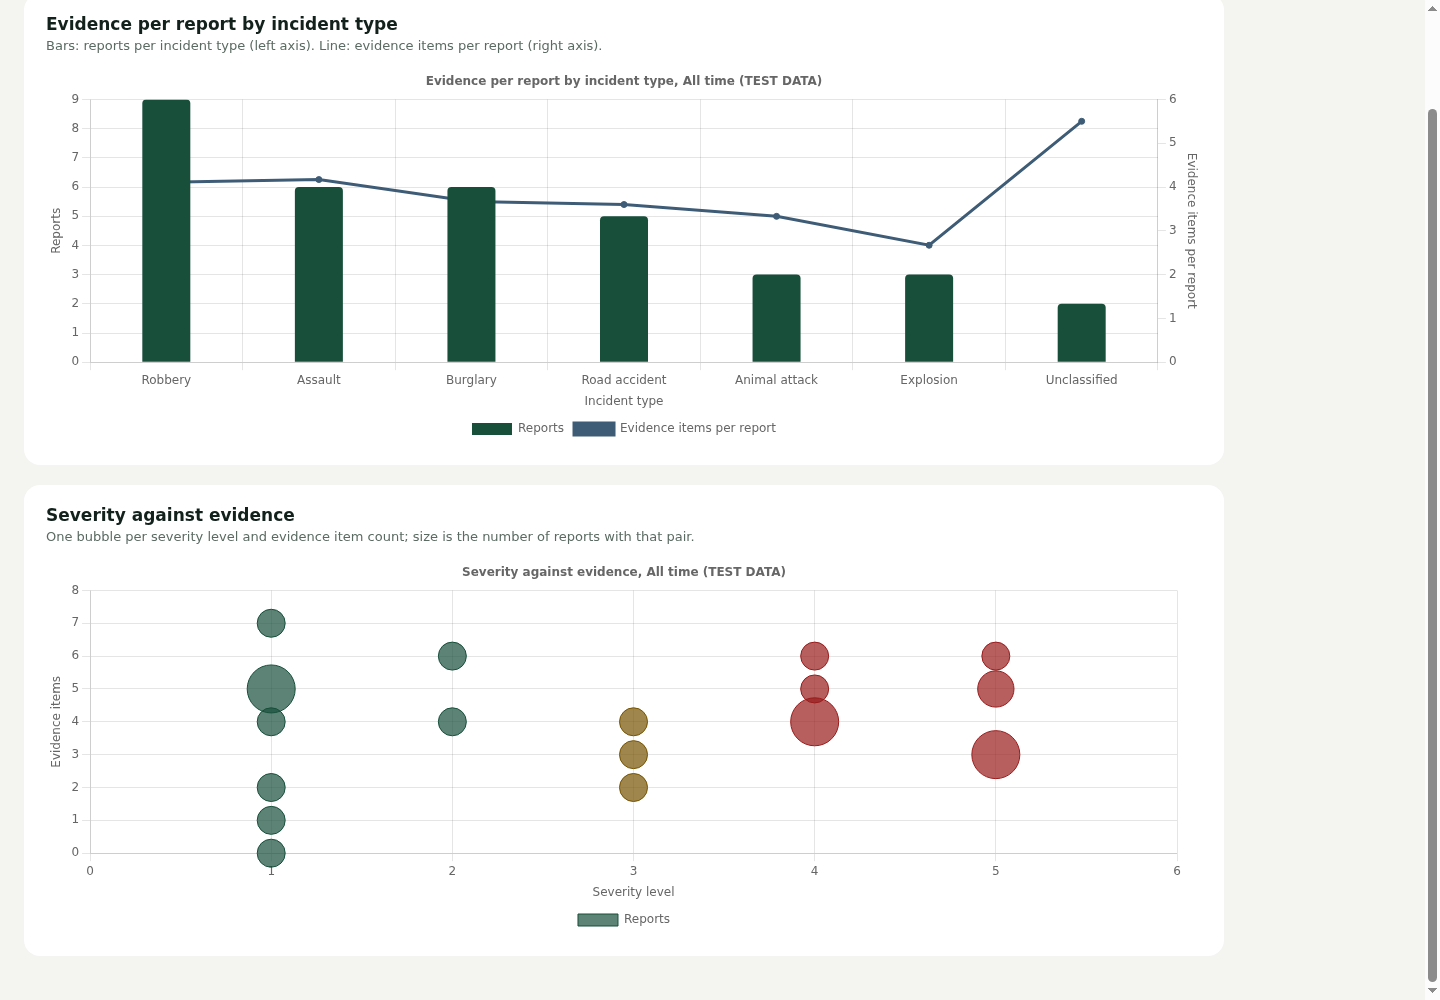
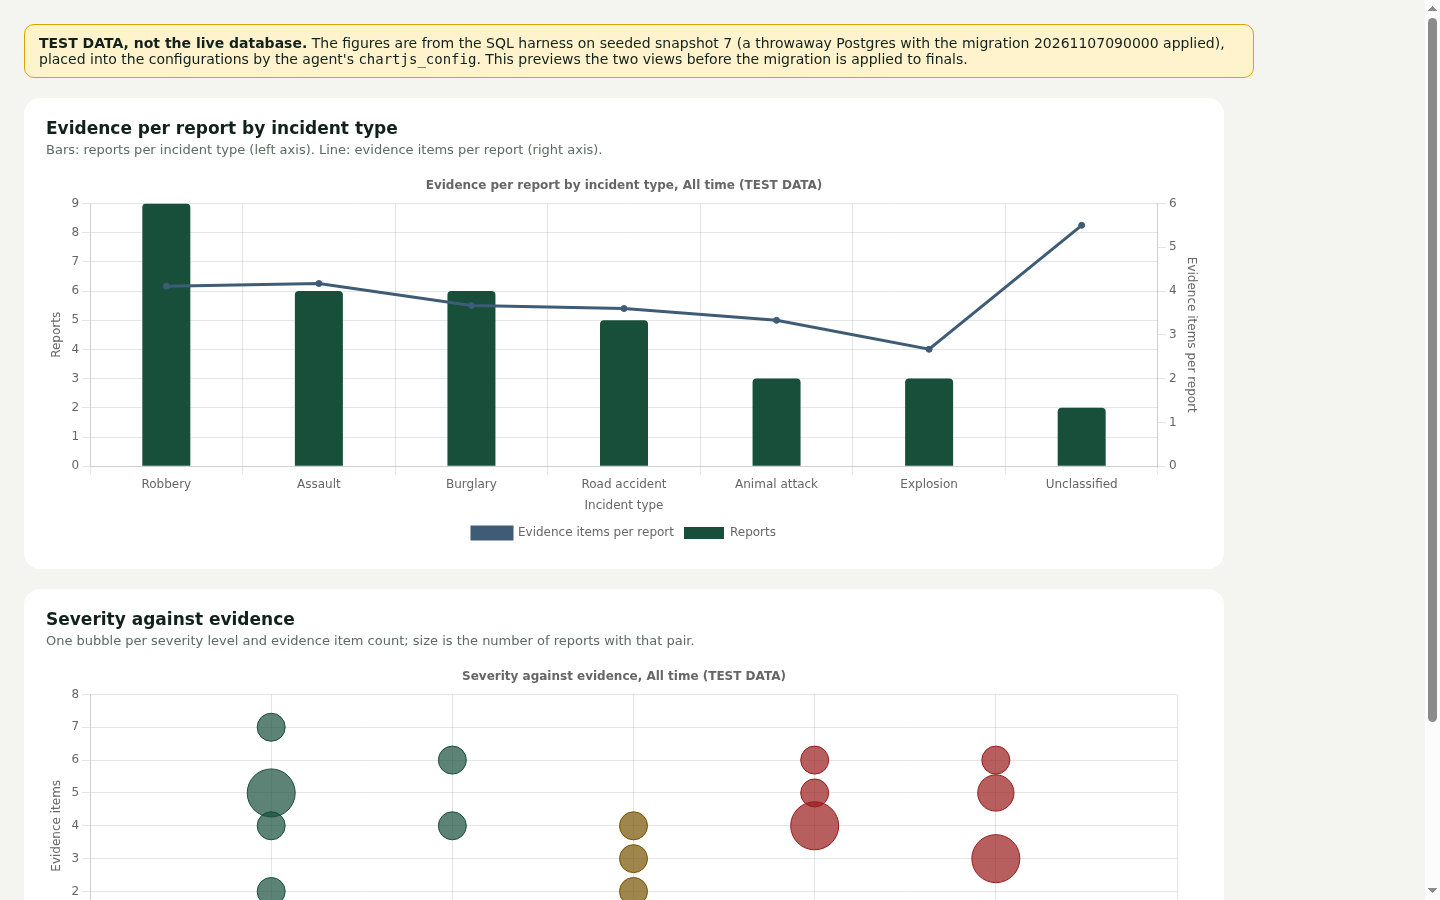
fix(dashboard): line points of the dual-axis combo sit over the centres of their bars
The combo's category axis now has offset, so a line point is centred between the ticks like its bar, and the line is drawn over the bars (order), so no point is hidden. Config tests cover both; the test-data screenshot is retaken.

diff --git a/services/agent/src/vss_agents/tools/chartjs_config.py b/services/agent/src/vss_agents/tools/chartjs_config.py
@@ -202,6 +202,8 @@ def combo_dual_axis_config(data: ChartJsChartData) -> dict[str, Any]:
             "borderRadius": 4,
             "maxBarThickness": 48,
             "yAxisID": "y",
+            # Chart.js draws a lower order on top: the line is over the bars, so no point is hidden under its bar.
+            "order": 2,
         },
         {
             "type": "line",
@@ -213,6 +215,7 @@ def combo_dual_axis_config(data: ChartJsChartData) -> dict[str, Any]:
             "tension": 0,
             "pointRadius": 3,
             "yAxisID": "y1",
+            "order": 1,
         },
     ]
     return {
@@ -224,7 +227,8 @@ def combo_dual_axis_config(data: ChartJsChartData) -> dict[str, Any]:
             "interaction": {"mode": "index", "intersect": False},
             "plugins": {"legend": {"position": "bottom"}, "title": _text_option(data.title)},
             "scales": {
-                "x": {"title": _text_option(data.x_label)},
+                # offset centres each category between its ticks, so the line's points sit over the centres of the bars.
+                "x": {"offset": True, "title": _text_option(data.x_label)},
                 "y": {
                     "position": "left",
                     "beginAtZero": True,

diff --git a/services/agent/tests/unit_test/tools/test_chartjs_config.py b/services/agent/tests/unit_test/tools/test_chartjs_config.py
@@ -233,6 +233,24 @@ def test_combo_puts_the_bar_on_the_left_axis_and_the_line_on_the_right():
     json.dumps(config)
 
 
+def test_combo_centres_each_line_point_over_its_bar():
+    config = chartjs_config(
+        chart(
+            "combo_dual_axis",
+            [
+                {"label": "Reports", "values": [9, 4, 1]},
+                {"label": "Evidence items per report", "values": [2.5, 0.0, 3.33]},
+            ],
+            LABELS,
+        )
+    )
+    # Both datasets share the category axis; without offset a line point sits on a tick, not on the bar's centre.
+    assert config["options"]["scales"]["x"]["offset"] is True
+    assert config["data"]["datasets"][1]["type"] == "line" and "yAxisID" in config["data"]["datasets"][1]
+    bar, line = config["data"]["datasets"]
+    assert line["order"] < bar["order"], "the line is drawn over the bars, so no point is hidden"
+
+
 def test_combo_needs_exactly_a_bar_series_and_a_line_series():
     one = [{"label": "Reports", "values": [1, 2, 3]}]
     with pytest.raises(ValidationError):
